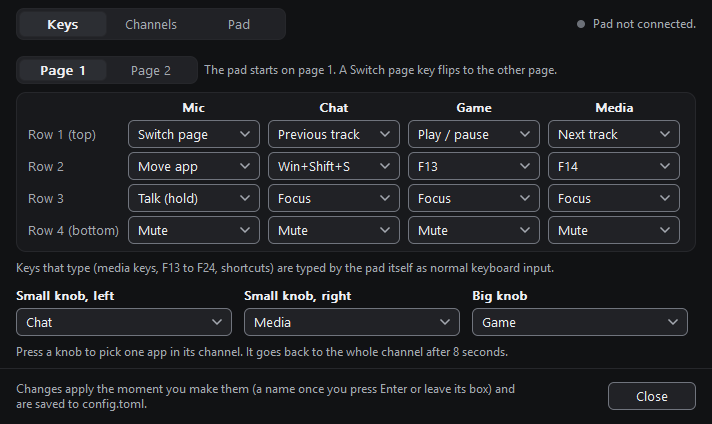
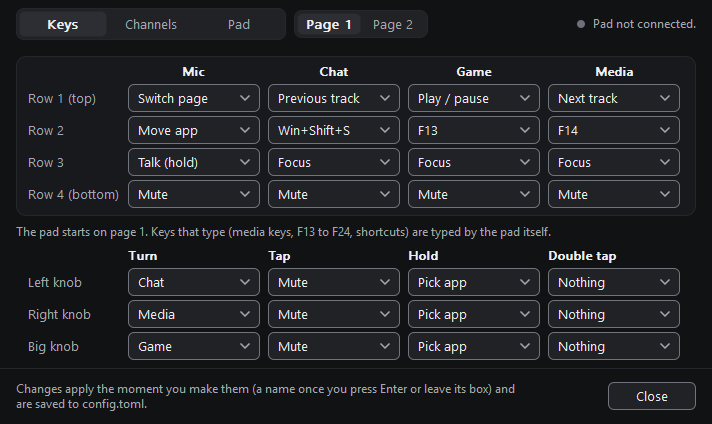
Show the knob grid and the new Pad controls in the design doc and images
The Keys and Pad pictures are drawn hidden from the default config at
96 dpi; the Channels picture is unchanged (pixel for pixel).

diff --git a/docs/design/settings-ui.md b/docs/design/settings-ui.md
@@ -73,6 +73,28 @@ When the window moves to a display with a different scale (`WM_DPICHANGED`), the
 | List | `LISTBOX`, owner-drawn | `WM_DRAWITEM` for each row. The parent paints the frame. |
 | Label, status line | `STATIC`, `SS_OWNERDRAW` | `WM_DRAWITEM`. |
 
+## Layout of the tabs
+
+The window does not grow. When a tab must hold more controls, the layout moves or removes text, and keeps the 4 px grid and the 28 px controls.
+
+- **Keys**: the key grid is in a card.
+  Under it, the knob grid has one row for each knob, in the same columns as the key grid: **Turn**, **Tap**, **Hold** and **Double tap**.
+  The page switch (**Page 1**, **Page 2**) is in the header, at the right of the tab strip.
+  It shows only on the Keys tab.
+- **Channels**: one card for each channel.
+- **Pad**: four cards: **Screen**, **Sound**, **Lights** and **System**.
+  **Sound** holds the knob step, the Focus level and the output device.
+  **Lights** holds the brightness, the dim time and the idle level (**Dim lights to**).
+
+Holds and double taps of keys (`[keys_hold]` and the other tables like it) have no controls, because the Keys tab has no more space.
+Set them in `config.toml`.
+
+The **Output device** select gets the list of output devices when the window opens, and again when its list opens.
+No timer reads the list.
+A device that is not connected shows as "*name* (not connected)" and stays selected.
+Windows does not give the name of a device that is not connected.
+Thus the app writes the name in a comment after the device id in `config.toml`.
+
 A control that has the keyboard focus gets a 2 px ring in the accent colour, 2 px outside the control.
 The parent paints the ring.
 Windows hides the ring until the user presses a key (`UISF_HIDEFOCUS`).
